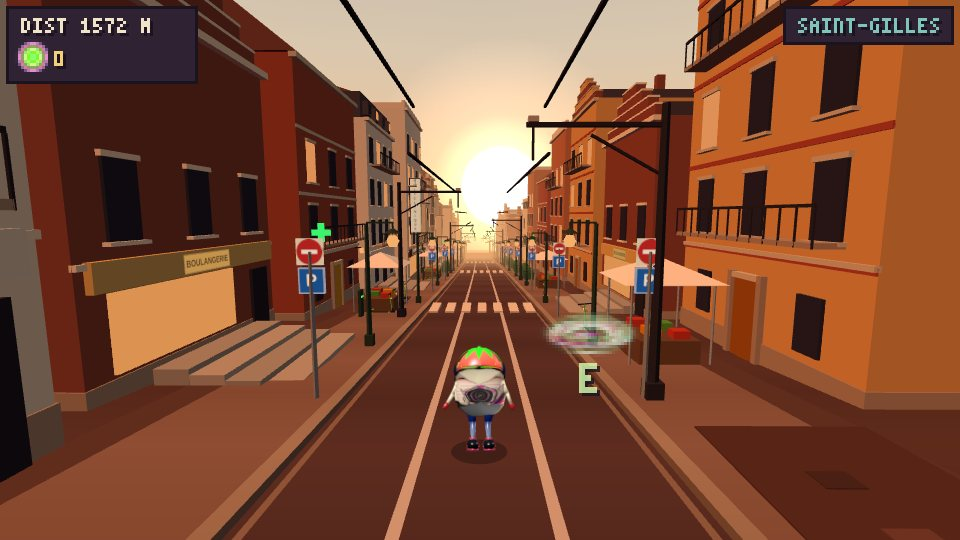
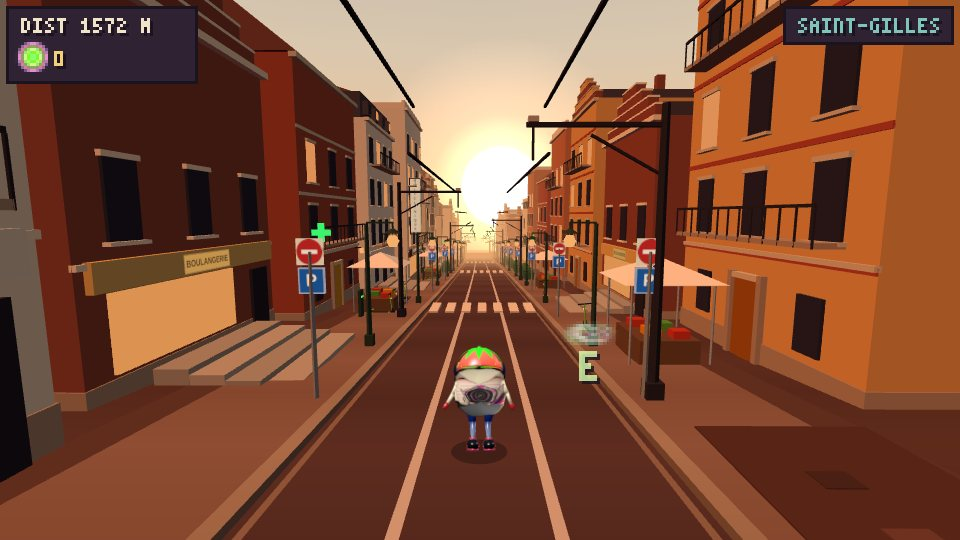
Scooter disc: smaller (0.78 of the ground circle) and it now glitches like an old RGB screen now and then (bursts of 0.14-0.4 s: red/green/blue copies slip apart, flicker and jump, scan lines, snow; Renderer.glitchAt); tests

Changed region(s): [[0.5625, 0.563, 0.6875, 0.7407]]

diff --git a/src/render.js b/src/render.js
@@ -298,27 +298,48 @@ class Renderer {
     c.fillRect(x, y + 7, 3, 3); c.fillRect(x + 9, y + 7, 3, 3);              // wheels
   }
 
+  // when the disc glitches like an old RGB / CRT screen: a burst of 0.14-0.4 s in about 7 slots out of 10 of 2.4 s (so, now and then, not all the time); k is its envelope 0..1. A pure function of the time.
+  static glitchAt(t) {
+    const s = Math.floor(t / 2.4), f = t - s * 2.4, st = 0.3 + rnd(s, 61) * 1.4, len = 0.14 + rnd(s, 62) * 0.26;
+    return rnd(s, 60) < 0.7 && f >= st && f < st + len ? { burst: true, k: Math.sin(Math.PI * (f - st) / len) } : { burst: false, k: 0 };
+  }
+
   // the indicator for a parked scooter or a station (g.scooterHint, placed by Renderer3D): not a sign, a translucent DISC on the ground right under it, made from the user's green swirl picture
-  // (RING_ART, reshaped into a round disc), squashed into the ground's perspective ellipse, turning slowly and breathing a little, with what to press (E, or TAP on a touch device) in faint
-  // letters below. Pressing E or tapping / clicking the disc (or the scooter above it) gets on (Game.mount). It is armed from 140 m ahead to 60 m behind, and pinned low on its side once the
-  // scooter is behind the camera. Until the picture has loaded (or without it) the disc is drawn with ellipses.
+  // (RING_ART, reshaped into a round disc), small, squashed into the ground's perspective ellipse, turning slowly and breathing a little, with what to press (E, or TAP on a touch device) in faint
+  // letters below. Now and then it glitches like an old RGB screen (glitchAt): the red, green and blue copies slip apart sideways, the disc flickers and jumps, scan lines and a snowy haze cross it.
+  // Pressing E or tapping / clicking the disc (or the scooter above it) gets on (Game.mount). It is armed from 140 m ahead to 60 m behind, and pinned low on its side once the scooter is behind
+  // the camera. Until the picture has loaded (or without it) the disc is drawn with ellipses.
   drawScooterHint(g) {
     const h = g.scooterHint; if (!h || g.riding) return;
     const c = this.ctx, a = Math.max(0.4, Math.min(1, 1.3 - Math.abs(h.ahead) / (h.ahead < 0 ? 80 : 130))), label = g.touch ? 'TAP' : 'E';
     if (!this.ringImg && typeof RING_ART !== 'undefined') { this.ringImg = new Image(); this.ringImg.src = RING_ART.a; }
     const art = this.ringImg && this.ringImg.complete && this.ringImg.naturalWidth;
-    const rx = h.rx * 1.3, ry = Math.max(h.ry, h.rx * 0.45) * 1.3, k = 1 + 0.05 * Math.sin(g.time * 3);              // the disc's half axes on the ground
+    if (art && !this.ringCh) this.ringCh = [0, 1, 2].map(ch => {                                                      // the picture's red, green and blue channels, one canvas each (for the glitch)
+      const cv = document.createElement('canvas'); cv.width = this.ringImg.naturalWidth; cv.height = this.ringImg.naturalHeight; const x = cv.getContext('2d'); x.drawImage(this.ringImg, 0, 0);
+      const im = x.getImageData(0, 0, cv.width, cv.height), d = im.data; for (let i = 0; i < d.length; i += 4) for (let k = 0; k < 3; k++) if (k !== ch) d[i + k] = 0; x.putImageData(im, 0, 0); return cv; });
+    const rx = h.rx * 0.78, ry = Math.max(h.ry, h.rx * 0.45) * 0.78, k = 1 + 0.05 * Math.sin(g.time * 3), G = Renderer.glitchAt(g.time), fr = Math.floor(g.time * 30);   // the disc's half axes on the ground
     let bottom;
     if (art) {
-      c.save(); c.imageSmoothingEnabled = true; c.imageSmoothingQuality = 'high'; c.globalAlpha = (h.pinned ? 0.88 : 0.8) * a;
-      c.translate(h.x, h.y); c.scale(1, ry / rx); c.rotate(g.time * 0.7); c.drawImage(this.ringImg, -rx * k, -rx * k, 2 * rx * k, 2 * rx * k);          // (turned, then squashed: a disc seen at a slant)
+      const base = (h.pinned ? 0.88 : 0.8) * a, flick = G.burst ? (rnd(fr, 63) > 0.3 ? 1 : 0.12) : 1, sz = 2 * rx * k;
+      c.save(); c.imageSmoothingEnabled = true; c.imageSmoothingQuality = 'high';
+      c.translate(h.x + (G.burst ? (rnd(fr, 64) - 0.5) * 6 * G.k : 0), h.y); c.scale(1, ry / rx); c.rotate(g.time * 0.7);
+      if (G.burst && this.ringCh) {                                                                                  // the three colour copies slip apart sideways (the glitch), added back together
+        c.globalCompositeOperation = 'lighter'; const sp = (1.5 + 2.5 * G.k) * (0.6 + rnd(fr, 65));
+        for (let ch = 0; ch < 3; ch++) { c.globalAlpha = Math.min(1, base * flick * 1.1); c.drawImage(this.ringCh[ch], -rx * k + (ch - 1) * sp, -rx * k, sz, sz); }
+      } else { c.globalAlpha = base * flick; c.drawImage(this.ringImg, -rx * k, -rx * k, sz, sz); }                   // (turned, then squashed: a disc seen at a slant)
       c.restore(); bottom = h.y + ry * k;
+      if (G.burst) {                                                                                                  // scan lines and snow
+        c.save(); c.globalAlpha = 0.22 * G.k * a; c.fillStyle = C.ink; for (let y = Math.round(h.y - ry); y < h.y + ry; y += 2) { const half = rx * Math.sqrt(Math.max(0, 1 - ((y - h.y) / ry) ** 2)); c.fillRect(Math.round(h.x - half), y, Math.round(2 * half), 1); }
+        c.globalAlpha = 0.14 * G.k * a; c.fillStyle = '#e8ffe8'; c.beginPath(); c.ellipse(h.x, h.y, rx * 1.15, ry * 1.15, 0, 0, 6.2832); c.fill();      // a faint haze
+        for (let i = 0; i < 28; i++) { c.globalAlpha = (0.3 + 0.5 * rnd(fr, 300 + i)) * G.k * a; c.fillStyle = ['#ffffff', '#9fffa8', '#ff9fd0'][i % 3]; c.fillRect(Math.round(h.x + (rnd(fr, 100 + i) * 2 - 1) * rx * 1.1), Math.round(h.y + (rnd(fr, 200 + i) * 2 - 1) * ry * 1.1), 1 + (i & 1), 1); }
+        c.restore();
+      }
     } else {
       c.save(); c.beginPath(); c.ellipse(h.x, h.y, rx, ry, 0, 0, 6.2832); c.fillStyle = '#7ddc3a'; c.globalAlpha = 0.22 * a; c.fill();
       c.lineWidth = 1; c.strokeStyle = '#b6ff7a'; c.globalAlpha = 0.75 * a; c.beginPath(); c.ellipse(h.x, h.y, rx, ry, 0, 0, 6.2832); c.stroke(); c.restore(); bottom = h.y + ry;
     }
     const tx = Math.round(h.x - textW(label, 2) / 2), ty = Math.min(VH - 12, Math.round(bottom + 2));
-    c.globalAlpha = 0.8 * a; this.txt(label, tx, ty, '#d8ffb0', 2); c.globalAlpha = 1;
+    c.globalAlpha = (G.burst && rnd(fr, 66) < 0.3 ? 0.3 : 0.8) * a; this.txt(label, tx, ty, '#d8ffb0', 2); c.globalAlpha = 1;
   }
 
   drawHud(g) {

diff --git a/tests/qa3d_scooter.js b/tests/qa3d_scooter.js
@@ -67,11 +67,22 @@ const res = []; const T = (n, ok, i = '') => { res.push(ok); console.log((ok ? '
       ctx.fillRect = (x, y, w, h) => { if (w >= 12 || h >= 12) o.big++; return fr(x, y, w, h); }; ctx.drawImage = (...a) => { o.imgs.push([a[0] === ui.ringImg ? 'disc' : '?', +ctx.globalAlpha.toFixed(2), ctx.globalCompositeOperation]); return di(...a); }; ctx.scale = (x, y) => { o.scale = +y.toFixed(2); return sc(x, y); };
       ctx.fill = (...a) => { o.alphas.push(+ctx.globalAlpha.toFixed(2)); return fl(...a); }; ctx.stroke = (...a) => { o.alphas.push(+ctx.globalAlpha.toFixed(2)); return st(...a); };
       ui.drawScooterHint(g); ctx.fillRect = fr; ctx.drawImage = di; ctx.fill = fl; ctx.stroke = st; ctx.scale = sc; return o; };
-    out.withArt = run(); const keep = ui.ringImg; ui.ringImg = new Image(); out.noArt = run(); ui.ringImg = keep;     // picture not loaded: the ellipse disc
+    let qt = null, bt = null; for (let t = 5; t < 120 && (qt === null || bt === null); t += 0.01) { const G = Renderer.glitchAt(t); if (!G.burst && qt === null && t > 6) qt = t; if (G.burst && G.k > 0.9 && bt === null) bt = t; }
+    g.time = qt; out.withArt = run(); const keep = ui.ringImg; ui.ringImg = new Image(); out.noArt = run(); ui.ringImg = keep;
+    // a glitch burst: the three colour copies side by side added together, scan lines, snow
+    { g.time = bt; const o = { chans: 0, offs: [], comps: [], scan: 0, snow: 0 }; const di = ctx.drawImage.bind(ctx), fr = ctx.fillRect.bind(ctx);
+      ctx.drawImage = (...a) => { if (ui.ringCh && ui.ringCh.includes(a[0])) { o.chans++; o.offs.push(Math.round(a[1] * 10) / 10); o.comps.push(ctx.globalCompositeOperation); } return di(...a); };
+      ctx.fillRect = (x, y, w, h) => { if (w >= 12 && h === 1) o.scan++; else if (w <= 2 && h === 1) o.snow++; return fr(x, y, w, h); };
+      ui.drawScooterHint(g); ctx.drawImage = di; ctx.fillRect = fr; out.burst = o; }     // picture not loaded: the ellipse disc
     return out;
   });
   T('the ring is a disc made from the green swirl picture only (a ' + X.loaded.join(' x ') + ' WebP: ' + Math.round(X.alpha.clear * 100) + ' % clear, ' + Math.round(X.alpha.solid * 100) + ' % solid, a soft edge), drawn once, translucent (alpha <= 0.9), squashed into the ground ellipse (y scale ' + X.withArt.scale + '), no solid plate',
     X.loaded[0] === X.meta[0] && X.loaded[1] === X.meta[1] && X.single && X.alpha.corner === 0 && X.alpha.centre > 200 && X.alpha.edge < 200 && X.alpha.soft > 0.03 && X.alpha.solid > 0.1 && X.withArt.big === 0 && X.withArt.imgs.length === 1 && X.withArt.imgs[0][0] === 'disc' && X.withArt.imgs[0][1] <= 0.9 && X.withArt.imgs[0][2] === 'source-over' && X.withArt.scale > 0.2 && X.withArt.scale < 0.9, JSON.stringify({ withArt: X.withArt, alpha: X.alpha }));
+  const Gl = await pg.evaluate(() => { let bursts = 0, frames = 0, run = 0, longest = 0, shortest = 9, burstFrames = 0; const dt = 1 / 60;
+    for (let t = 0; t < 600; t += dt) { frames++; if (Renderer.glitchAt(t).burst) { burstFrames++; run += dt; } else if (run) { bursts++; longest = Math.max(longest, run); shortest = Math.min(shortest, run); run = 0; } }
+    return { share: +(burstFrames / frames).toFixed(3), bursts, longest: +longest.toFixed(2), shortest: +shortest.toFixed(2), perMinute: +(bursts / 10).toFixed(1) }; });
+  T('the disc glitches like an old RGB screen now and then: bursts of ' + Gl.shortest + '-' + Gl.longest + ' s, about ' + Gl.perMinute + ' a minute, ' + Math.round(Gl.share * 100) + ' % of the time; during one the red, green and blue copies are drawn apart and added (lighter), with scan lines and snow; in between a single normal draw',
+    Gl.share > 0.03 && Gl.share < 0.2 && Gl.longest <= 0.45 && Gl.shortest >= 0.1 && X.burst.chans === 3 && X.burst.comps.every(c => c === 'lighter') && new Set(X.burst.offs).size === 3 && X.burst.scan > 3 && X.burst.snow > 10, JSON.stringify({ Gl, burst: X.burst }));
   T('until the picture has loaded the disc is drawn with translucent ellipses instead (a disc and a ring, every alpha <= 0.75, no solid rectangle)',
     X.noArt.big === 0 && X.noArt.imgs.length === 0 && X.noArt.alphas.length >= 2 && Math.max(...X.noArt.alphas) <= 0.75, JSON.stringify(X.noArt));
 

diff --git a/README.md b/README.md
@@ -33,7 +33,7 @@ A third set of 17 pictures (`src3d/neon_assets3.js`, one alpha atlas) adds 17 mo
 
 ![neon quarter](docs/screenshots/neon-quarter.jpg)
 
-**Saint-Gilles (the tram street):** a street in Saint-Gilles, Brussels, at sunset, from your two street photos (`src3d/env_tram.js`, `src3d/tram_art.js`), as the track segment `tramRun` (450 m, a `district` like the Neon Quarter, between the second lap's city run and the second fork). The sky, fog, light, road palette and scenery fade from the old town into it over the first 120 m and back over the last 120 m. A big low sun sits ahead, a little right of the road, with a soft orange glow (`sunPos` / `sunGlow` in the biome data, drawn by `Renderer3D`; the other zones keep the default sun), a pale blue-grey sky, warm haze, and one low orange light from ahead that rims the facades and leaves the rest in warm shade. The road is dark red-brown cobbles with the two lane lines drawn as continuous silver **tram rails** (`rails: true` in the road palette); overhead **tram wires** run unbroken over both rails with poles every third slot, swan-neck lamps, a cobbled parking strip with parked cars (rear lights on), dark tall trees, and townhouses in brick, cream and white with bay windows, iron balconies and Brussels stepped gables (eight types; neighbours on a side are never the same type: even and odd slots draw from separate sets). In Saint-Gilles the runner can **ride a lime kick scooter, when they want**. Parked scooters and scooter stations (a platform with a charging post and four scooters) stand on the pavement; a translucent **disc** marks the ground right under the nearest one ahead: your green swirl picture (`src/ring_assets.js`, cut out of its flat backdrop and reshaped into a round disc with a soft edge), squashed into the ground's perspective, turning slowly and breathing a little, with a faint **E**, or **TAP** on a touch device, below it; not a sign, nothing solid. Tap or click the disc (or the scooter above it), or press **E**, and the runner gets on (that scooter is taken); **E** again, or the **HOP OFF** button on a touch device, gets off. It also ends when the street ends and on a restart. Riding is drawing only (`RunnerSprite.buildScooter`, a small low-poly model like the one in your photo): the card stands on the deck, the run bounce gives way to a steady glide, the wheels spin, the scooter leans with the steering and lifts its nose in the jump; the hit boxes and the speed are unchanged. Only the artwork avatar rides (the `?avatar=3d` model does not). `?scooter=1` forces riding everywhere, `?scooter=0` never (for testing). A transparent PNG of the scooter to refine elsewhere is in `docs/downloads/scooter.png` (3/4 view, 1536 x 1024) and `scooter-views.png` (side, front, rear, top); `node tools/render_scooter.js` makes them.
+**Saint-Gilles (the tram street):** a street in Saint-Gilles, Brussels, at sunset, from your two street photos (`src3d/env_tram.js`, `src3d/tram_art.js`), as the track segment `tramRun` (450 m, a `district` like the Neon Quarter, between the second lap's city run and the second fork). The sky, fog, light, road palette and scenery fade from the old town into it over the first 120 m and back over the last 120 m. A big low sun sits ahead, a little right of the road, with a soft orange glow (`sunPos` / `sunGlow` in the biome data, drawn by `Renderer3D`; the other zones keep the default sun), a pale blue-grey sky, warm haze, and one low orange light from ahead that rims the facades and leaves the rest in warm shade. The road is dark red-brown cobbles with the two lane lines drawn as continuous silver **tram rails** (`rails: true` in the road palette); overhead **tram wires** run unbroken over both rails with poles every third slot, swan-neck lamps, a cobbled parking strip with parked cars (rear lights on), dark tall trees, and townhouses in brick, cream and white with bay windows, iron balconies and Brussels stepped gables (eight types; neighbours on a side are never the same type: even and odd slots draw from separate sets). In Saint-Gilles the runner can **ride a lime kick scooter, when they want**. Parked scooters and scooter stations (a platform with a charging post and four scooters) stand on the pavement; a translucent **disc** marks the ground right under the nearest one ahead: your green swirl picture (`src/ring_assets.js`, cut out of its flat backdrop and reshaped into a round disc with a soft edge), small, squashed into the ground's perspective, turning slowly and breathing a little, and now and then (bursts of 0.14-0.4 s, a few times a minute, `Renderer.glitchAt`) it **glitches like an old RGB screen**: the red, green and blue copies slip apart sideways, it flickers and jumps, scan lines and snow cross it; with a faint **E**, or **TAP** on a touch device, below it; not a sign, nothing solid. Tap or click the disc (or the scooter above it), or press **E**, and the runner gets on (that scooter is taken); **E** again, or the **HOP OFF** button on a touch device, gets off. It also ends when the street ends and on a restart. Riding is drawing only (`RunnerSprite.buildScooter`, a small low-poly model like the one in your photo): the card stands on the deck, the run bounce gives way to a steady glide, the wheels spin, the scooter leans with the steering and lifts its nose in the jump; the hit boxes and the speed are unchanged. Only the artwork avatar rides (the `?avatar=3d` model does not). `?scooter=1` forces riding everywhere, `?scooter=0` never (for testing). A transparent PNG of the scooter to refine elsewhere is in `docs/downloads/scooter.png` (3/4 view, 1536 x 1024) and `scooter-views.png` (side, front, rear, top); `node tools/render_scooter.js` makes them.
 
 ![scooter](docs/screenshots/scooter.jpg)
 
